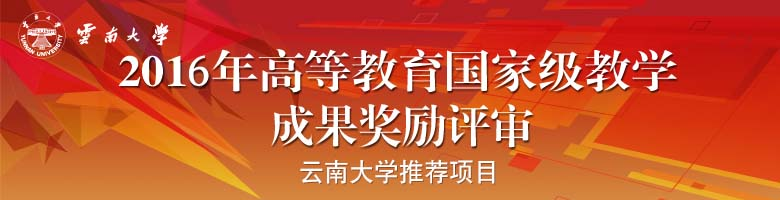
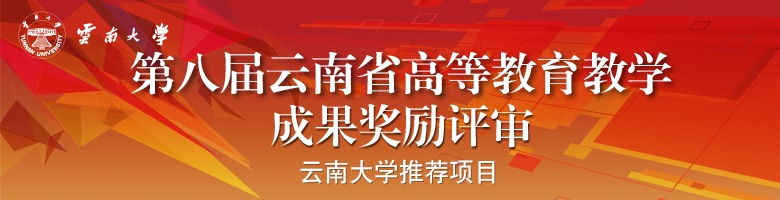
update

Changed region(s): [[0.1538, 0.24, 0.8923, 0.51], [0.0923, 0.15, 0.1231, 0.18]]

diff --git a/index.html b/index.html
@@ -3,7 +3,7 @@
 <html xmlns="http://www.w3.org/1999/xhtml">
 <head>
   <meta http-equiv="Content-Type" content="text/html; charset=utf-8">
-  <title>2016年高等教育国家级教学成果奖励评审云南大学推荐项目</title>
+  <title>第八届云南省高等教育教学成果奖评审</title>
   <link href="./css.css" type="text/css" rel="stylesheet">
 
 </head>
